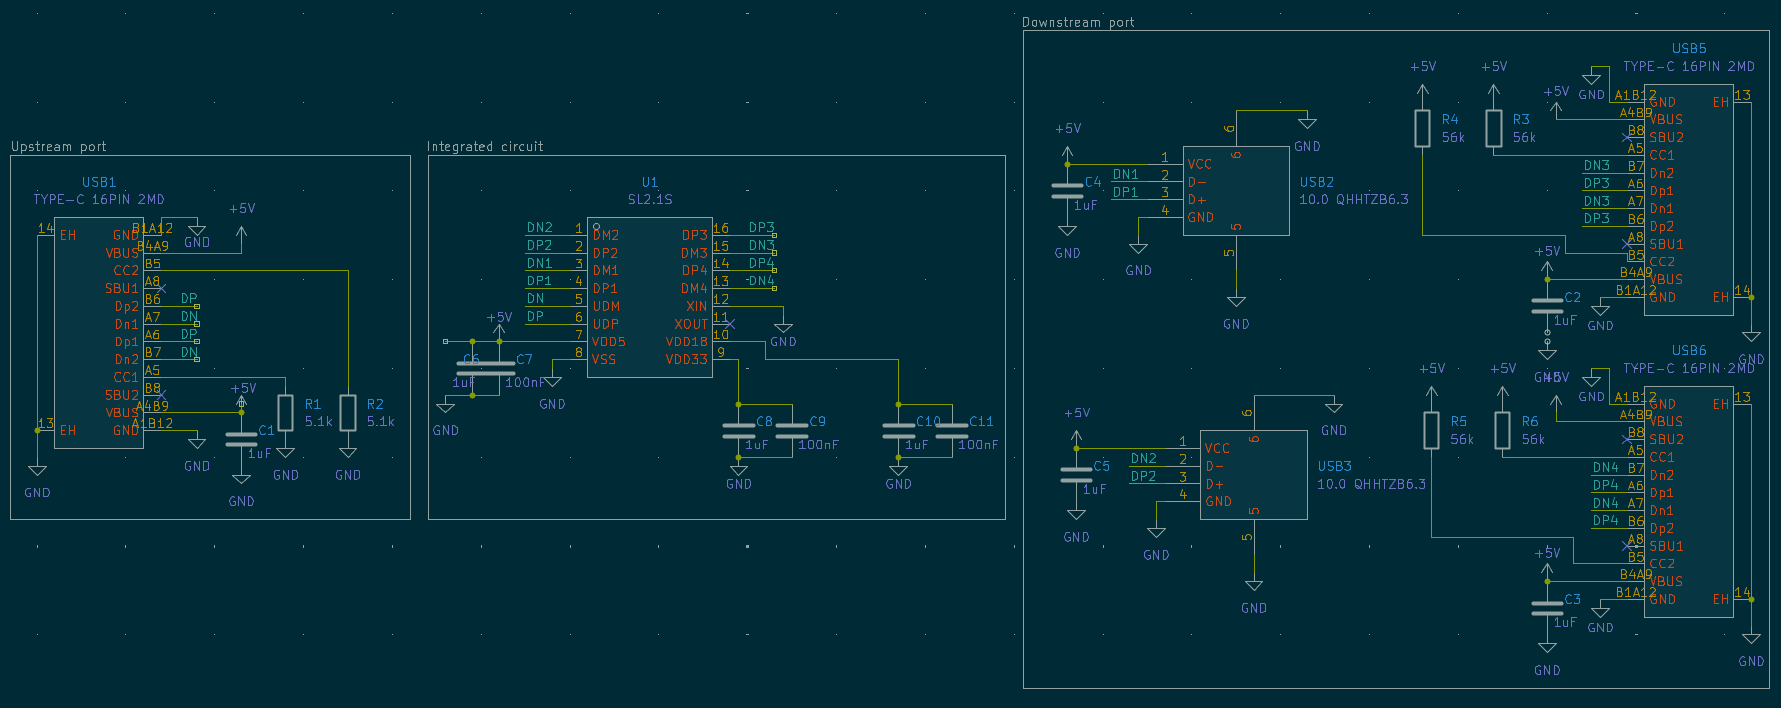
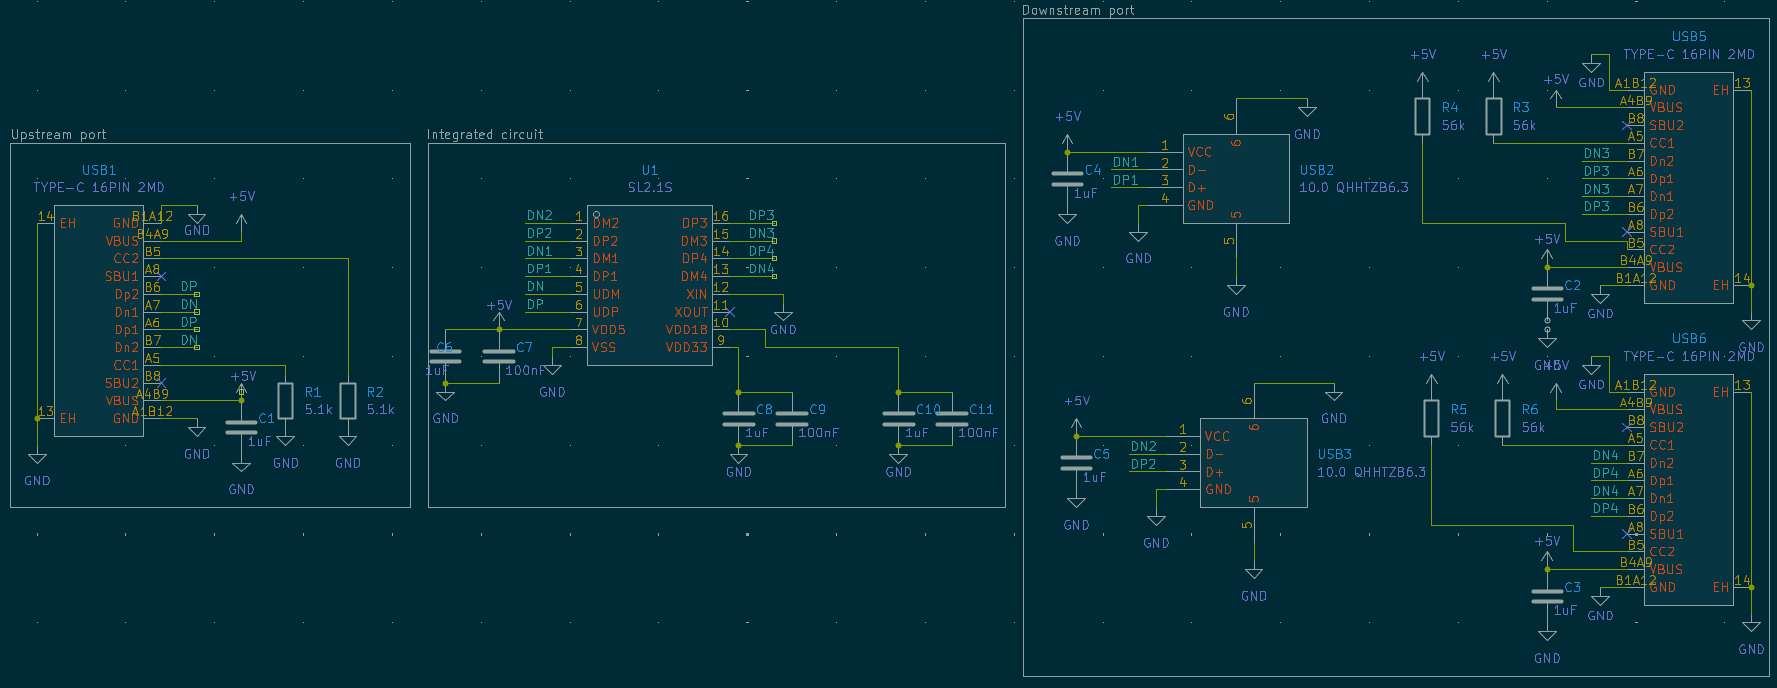
update

diff --git a/README.md b/README.md
@@ -25,7 +25,18 @@ I added some quotes as silkscreen art.
 
 ## BOM
 
-![bom](bom.csv)
+For a more detailed BOM, take a look at [BOM](bom.csv). It has links to the items and notes.
+
+| Item | Description | Quantity | Unit Price ($) | Total Price ($) |
+| --- | --- | --- | --- | --- |
+| PCB | PCB | 5 | 1.02 | 5.1 |
+| CoreChips SL2.1s | USB 2.0 HUB Controller Integrated Circuit | 5 | 0.2534 | 1.27 |
+| SHOU HAN 10.0 QHHTZB6.3 | CONN RCPT USB 2.0 Type-A 4POS SMD R/A | 10 | 0.0636 | 0.64 |
+| SHOU HAN TYPE-C 16PIN 2MD(073) | CONN RCPT Type-C 16POS SMD R/A | 20 | 0.0707 | 1.41 |
+| 10k Resistor SMD:R 0402 | Resistor | 6 | 0.0083 | 0.0498 |
+| 0.1uf Capacitor SMD:C 0402 | Capacitor | 11 | 0.011 | 0.121 |
+| <b>Total</b> | | | | 8.5908 |
+
 
 ## Zine
 